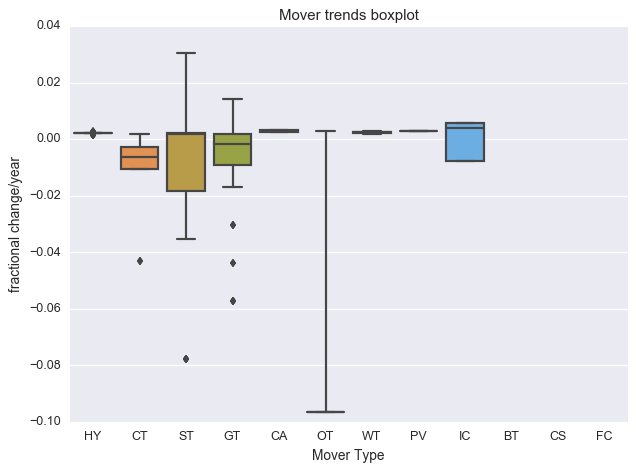
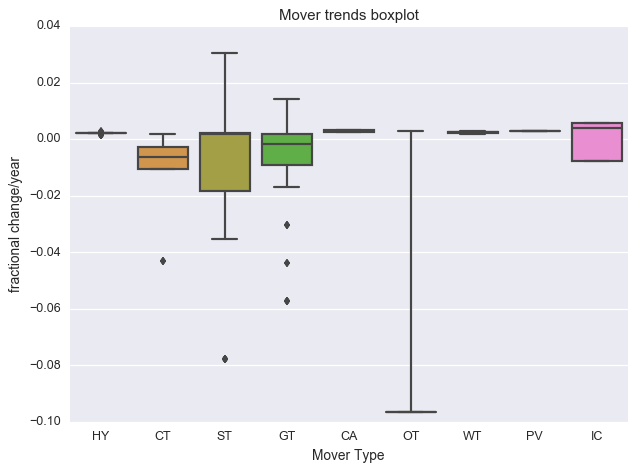
Update
Plot Updates

diff --git a/Power_plant.py b/Power_plant.py
@@ -235,12 +235,10 @@ def TrendBoxplot(df,name, Rsq_lim = 0,lower=-100,upper=100):
                         median = moverfuel_df[moverfuel].median(skipna=True)
                         stdev = moverfuel_df[moverfuel].std(skipna=True)
                         stat_df.ix[moverfuel]=[median,stdev]
-                print(mover)
-                print(moverfuel_df)
                 moverfuel_df.dropna(1,how='all',inplace=True)
                 print(moverfuel_df)
                 
-                if len(moverfuel_df)>1:
+                if len(list(moverfuel_df.columns.values))>0:
                     sns.boxplot(moverfuel_df)
                     plt.title(' '.join((mover,'trend Box Plot')))
                     plt.xlabel('Fuel Type')
@@ -256,7 +254,6 @@ def TrendBoxplot(df,name, Rsq_lim = 0,lower=-100,upper=100):
                 median = mover_df[mover].median(skipna=True)
                 stdev = mover_df[mover].std(skipna=True)
                 stat_df.ix[mover]=[median,stdev]
-            n=input()
 
     mover_df.sort_index(inplace=True)
     mover_df.dropna(1,how='all',inplace=True)
